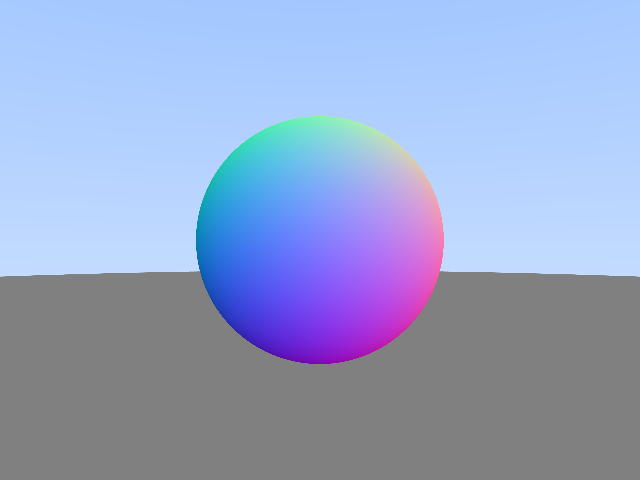
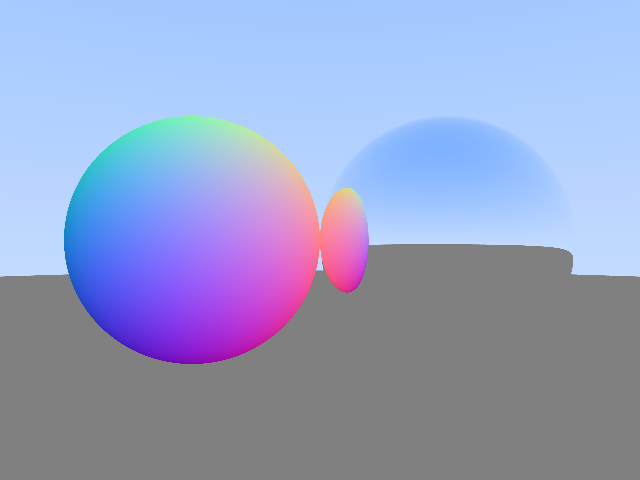
Oh, it was just shadow acne

Changed region(s): [[0.0938, 0.2188, 0.9062, 0.7812]]

diff --git a/archer/src/main.rs b/archer/src/main.rs
@@ -10,7 +10,7 @@ use archer::vectors::{PixelCoord, Color};
 use archer::materials::solid:: SolidColor;
 use archer::materials::normal::NormalMaterial;
 use archer::tracer::{RenderParameters, Tracer};
-// use archer::materials::perfect_mirror::PerfectMirror;
+use archer::materials::perfect_mirror::PerfectMirror;
 
 fn main() {
     const RESOLUTION: PixelCoord<u32> = PixelCoord::new(640, 480);
@@ -19,21 +19,21 @@ fn main() {
     camera.update();
 
     // Add some spheres
-    // let material = PerfectMirror {};
-    // let sphere: Sphere = Sphere {
-    //     radius: 1.0,
-    //     position: Point3::new(1.0, 0.0, -4.0),
-    // };
-    // let ball: SceneObject = SceneObject {
-    //     geometry: Box::new(sphere),
-    //     material: Box::new(material),
-    //     node_index: 0,
-    // };
+    let material = PerfectMirror {};
+    let sphere: Sphere = Sphere {
+        radius: 1.0,
+        position: Point3::new(1.0, 0.0, -4.0),
+    };
+    let ball: SceneObject = SceneObject {
+        geometry: Box::new(sphere),
+        material: Box::new(material),
+        node_index: 0,
+    };
 
     let material1 = NormalMaterial {};
     let sphere1: Sphere = Sphere {
         radius: 1.0,
-        position: Point3::new(0.0, 0.0, -4.0),
+        position: Point3::new(-1.0, 0.0, -4.0),
     };
     let otherball: SceneObject = SceneObject {
         geometry: Box::new(sphere1),
@@ -56,7 +56,7 @@ fn main() {
 
     // Create the scene
     let mut scene: Scene = Scene { objects: vec![] };
-    // scene.add(ball);
+    scene.add(ball);
     scene.add(otherball);
     scene.add(ground);
     

diff --git a/archer/src/geometries/sphere.rs b/archer/src/geometries/sphere.rs
@@ -22,6 +22,9 @@ impl Geometry for Sphere {
 
         if discriminant >= 0.0 {
             let t = (-b - f64::sqrt(discriminant)) / (2.0 * a);
+
+            if t < 0.00000000000000001 { return None }
+
             let point = incoming.position_at(t);
             let normal = (point - self.position).normalize();
 

diff --git a/archer/src/materials/perfect_mirror.rs b/archer/src/materials/perfect_mirror.rs
@@ -13,6 +13,7 @@ impl Material for PerfectMirror {
         let v = incoming.direction.normalize();
         let n = normal.normalize();
 
+        // println!("{hit_point:?}");
         bounced.origin = hit_point;
         bounced.direction = v - 2.0 * n.dot(&v) * n;
 
